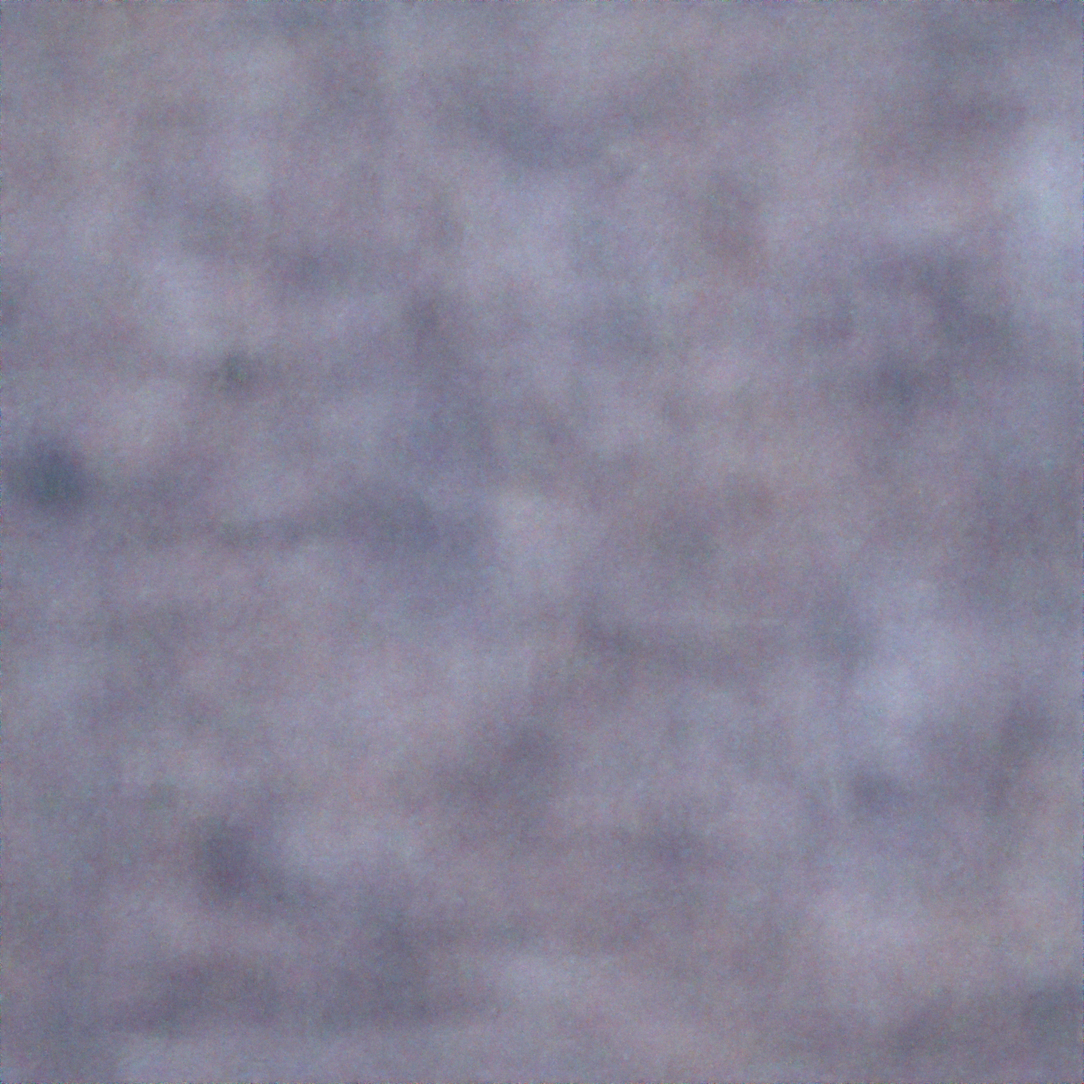
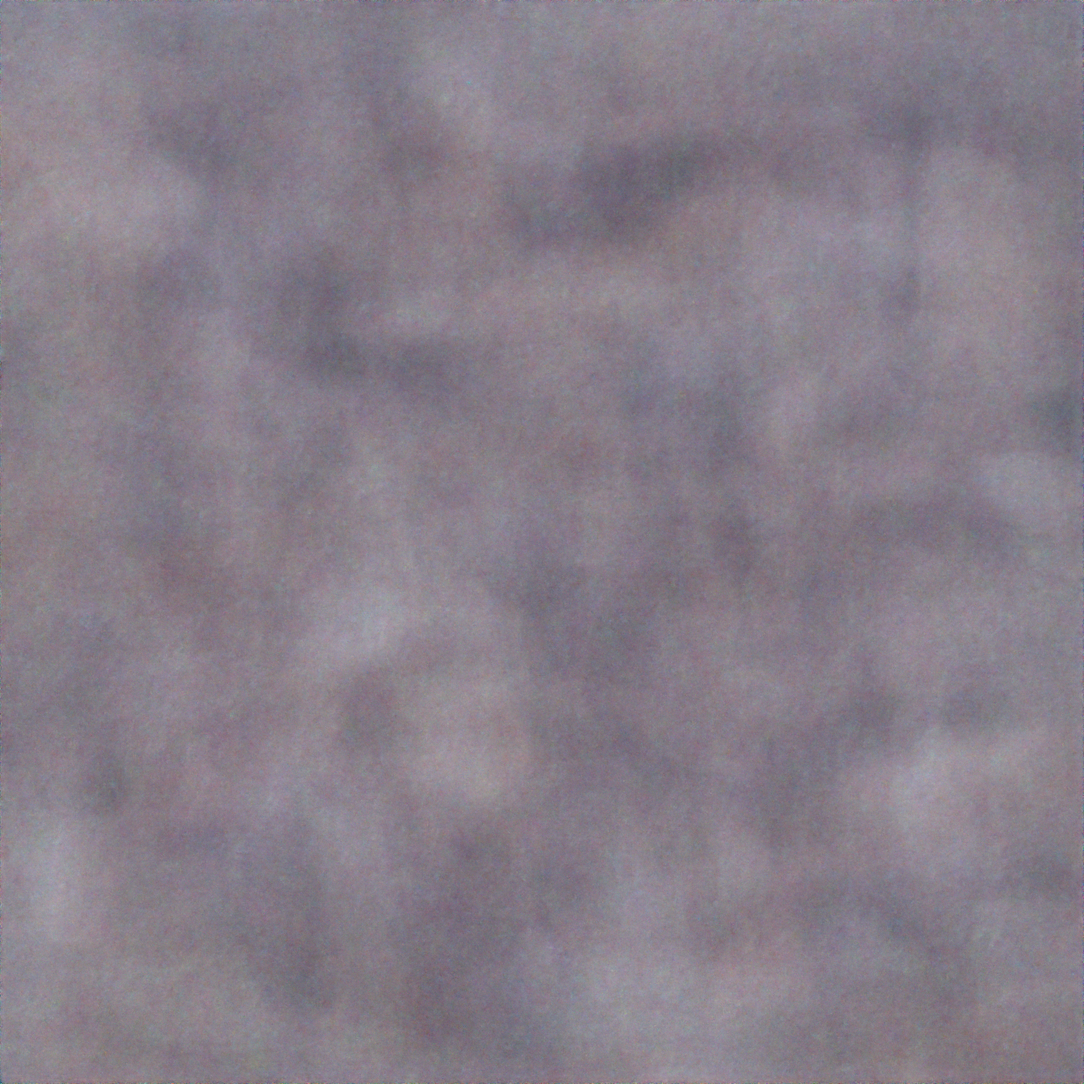
mooooon

diff --git a/main.py b/main.py
@@ -1229,7 +1229,8 @@ rand_mag = 0.05
 
 # %%
 text_prompts = [
-          "the Presidents of the United States:5",
+          "famous historical figures:5",
+          "Rube Goldberg machine:5",
           "by Hieronymus Bosch:5",
 ]
 
